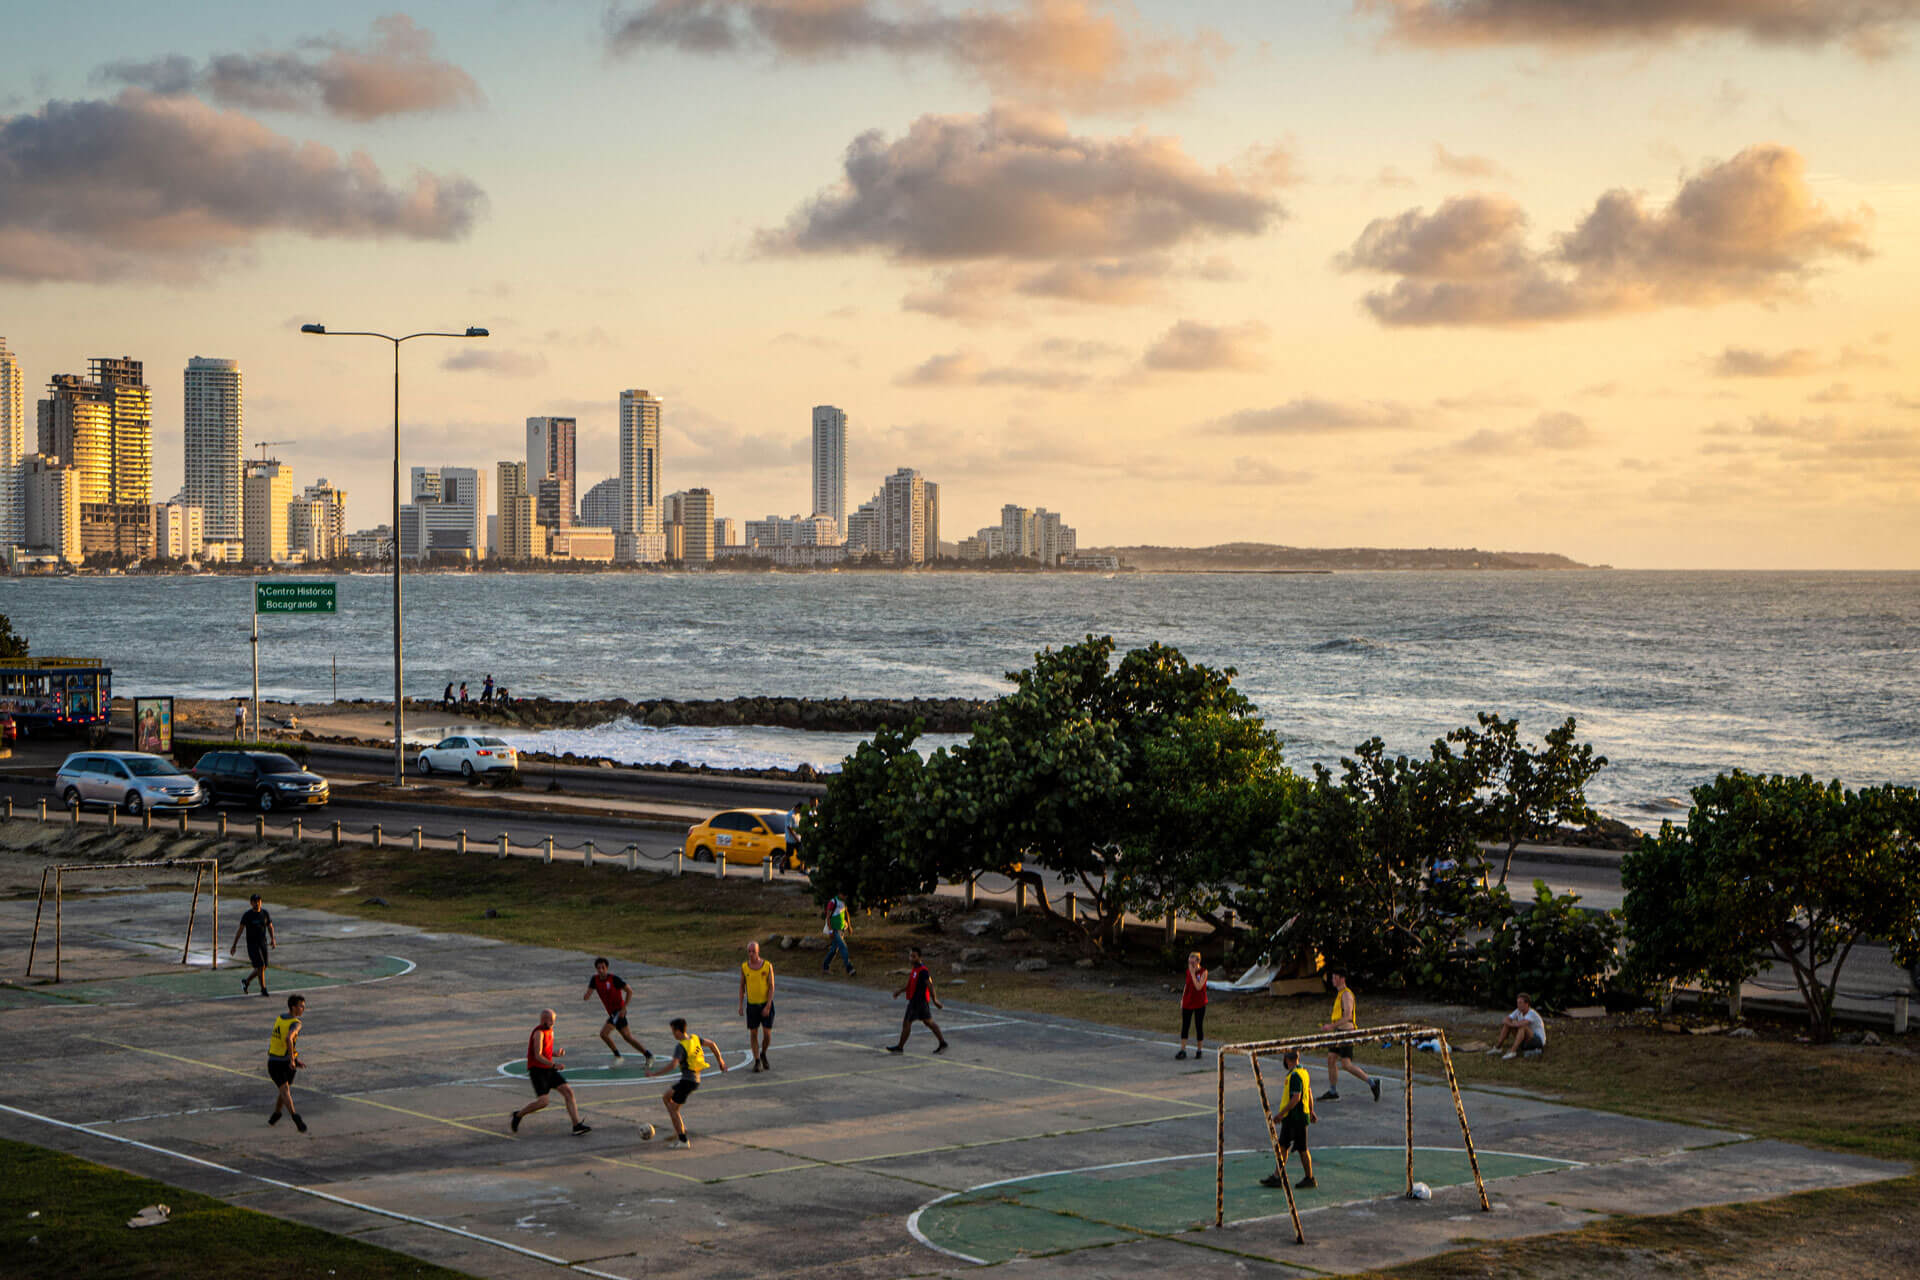
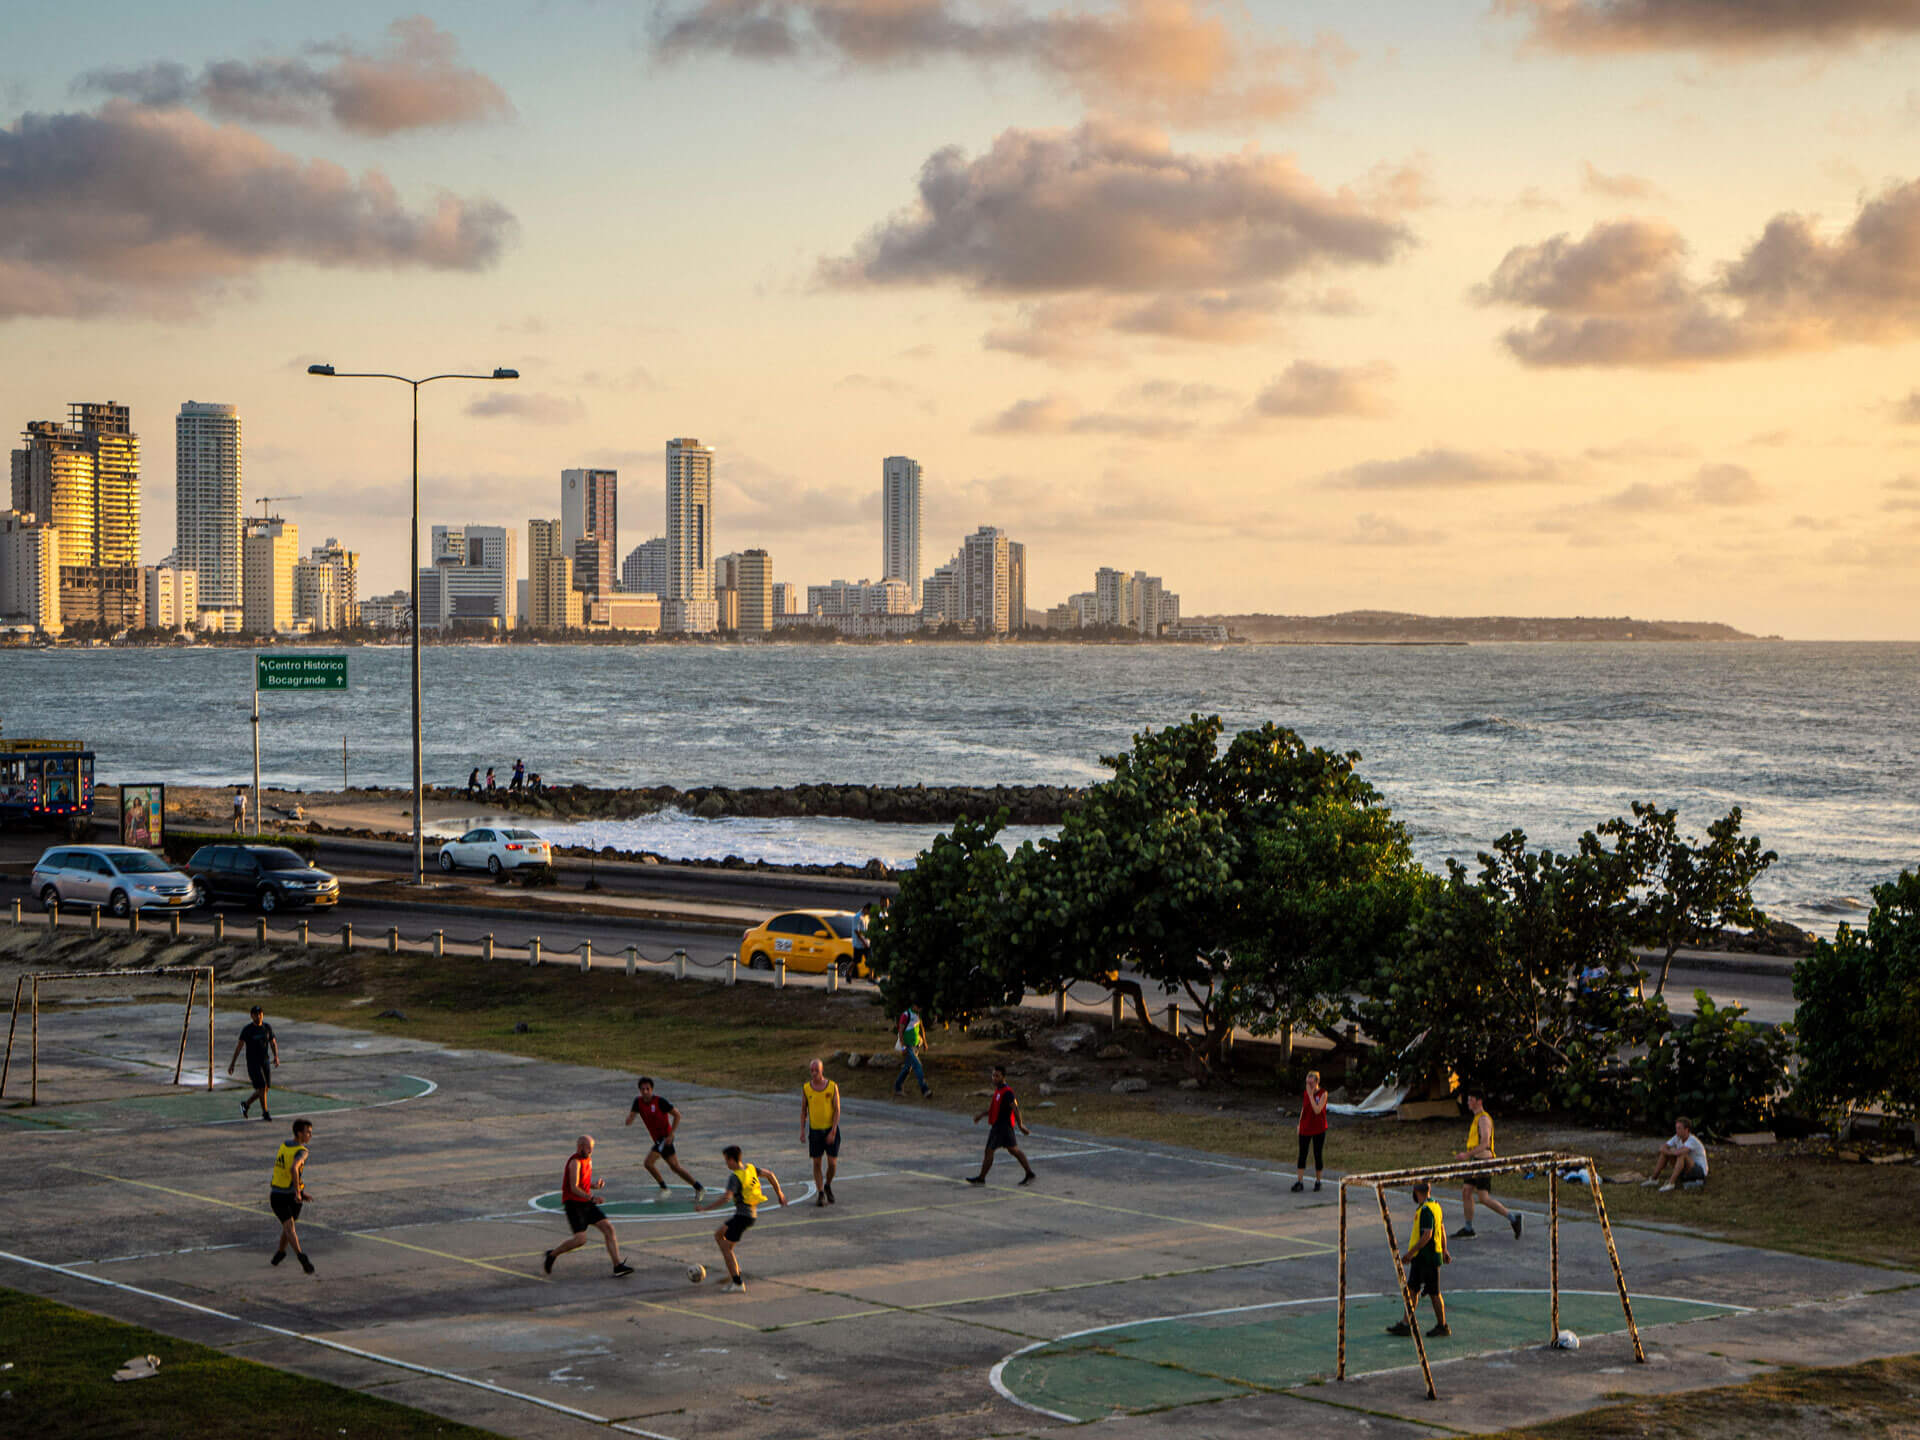
parallax

diff --git a/src/lib/projects/Parallax.svelte b/src/lib/projects/Parallax.svelte
@@ -43,12 +43,15 @@
         background-color: var(--base);
     }
     figure {
-        aspect-ratio: 16/9;
+        padding-top: 56.25%; // 16/9
         margin: 0;
         overflow: hidden;
         display: flex;
+        position: relative;
     }
     picture {
+        position: absolute;
+        top: 0;
         flex-grow: 1;
         display: flex;
     }
